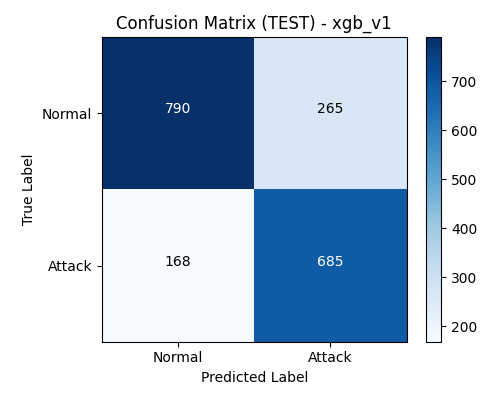
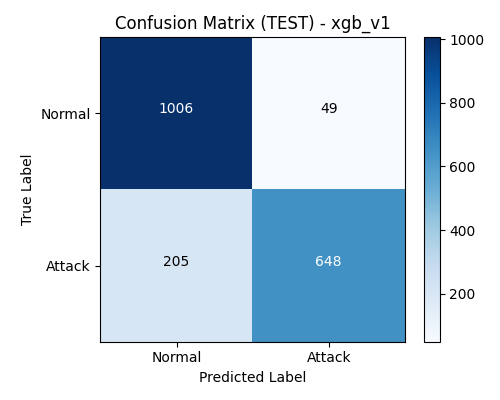
enable saving trained XGBoost model and update training pipeline

diff --git a/src/training/predict_saved_model.py b/src/training/predict_saved_model.py
@@ -1,0 +1,19 @@
+import numpy as np
+from src.utils.paths import MODELS_DIR, TEST_CSV, TRAIN_CSV
+from src.training.train_xgb import load_preprocessed_train_test
+from src.training.feature_engineering import add_security_featchers
+from src.utils.io import load_model
+
+TARGET_COL = "attack_detected"
+MODEL_NAME = "xgb_v1"
+
+def main():
+    X, y, X_test, y_test = load_preprocessed_train_test(TRAIN_CSV, TEST_CSV)
+    X_test = add_security_featchers(X_test)
+    model = load_model(MODELS_DIR / f"{MODEL_NAME}.joblib")
+    y_proba = model.predict_proba(X_test)[:, 1]
+    y_pred = (y_proba >= 0.5).astype(int)
+    print("Loaded model OK. preds:", np.bincount(y_pred))
+
+if __name__ == "__main__":
+    main()

diff --git a/src/utils/io.py b/src/utils/io.py
@@ -1,6 +1,8 @@
 import json
 from pathlib import Path
 import pandas as pd
+import joblib
+from pathlib import Path
 
 def ensure_dir(path: Path) -> None:
     path.mkdir(parents=True, exist_ok=True)
@@ -13,3 +15,10 @@ def save_json(path: Path, data: dict) -> None:
 def save_csv(path: Path, df: pd.DataFrame) -> None:
     ensure_dir(path.parent)
     df.to_csv(path, index=False)
+
+def save_model(model, path: Path) -> None:
+    ensure_dir(path.parent)
+    joblib.dump(model, path)
+
+def load_model(path: Path):
+    return joblib.load(path)

diff --git a/src/training/train_xgb_fe_tuned.py b/src/training/train_xgb_fe_tuned.py
@@ -48,7 +48,13 @@ def main():
         verbose=False
     )
 
-   
+    from src.utils.paths import MODELS_DIR
+    from src.utils.io import save_model
+
+    model_path = MODELS_DIR / f"{EXPERIMENT_NAME}.joblib"
+    save_model(model, model_path)
+    print("Saved model to:", model_path)
+
 
     # Validation evaluation
     y_pred_val = model.predict(X_val)

diff --git a/src/utils/paths.py b/src/utils/paths.py
@@ -8,3 +8,4 @@ TEST_CSV  = PROCESSED_DIR / "cybersecurity_intrusion_test_preprocessed.csv"
 RESULTS_DIR = PROJECT_ROOT / "results"
 METRICS_DIR = RESULTS_DIR / "metrics"
 CHARTS_DIR  = RESULTS_DIR / "charts"
+MODELS_DIR = PROJECT_ROOT / "trained_model"
